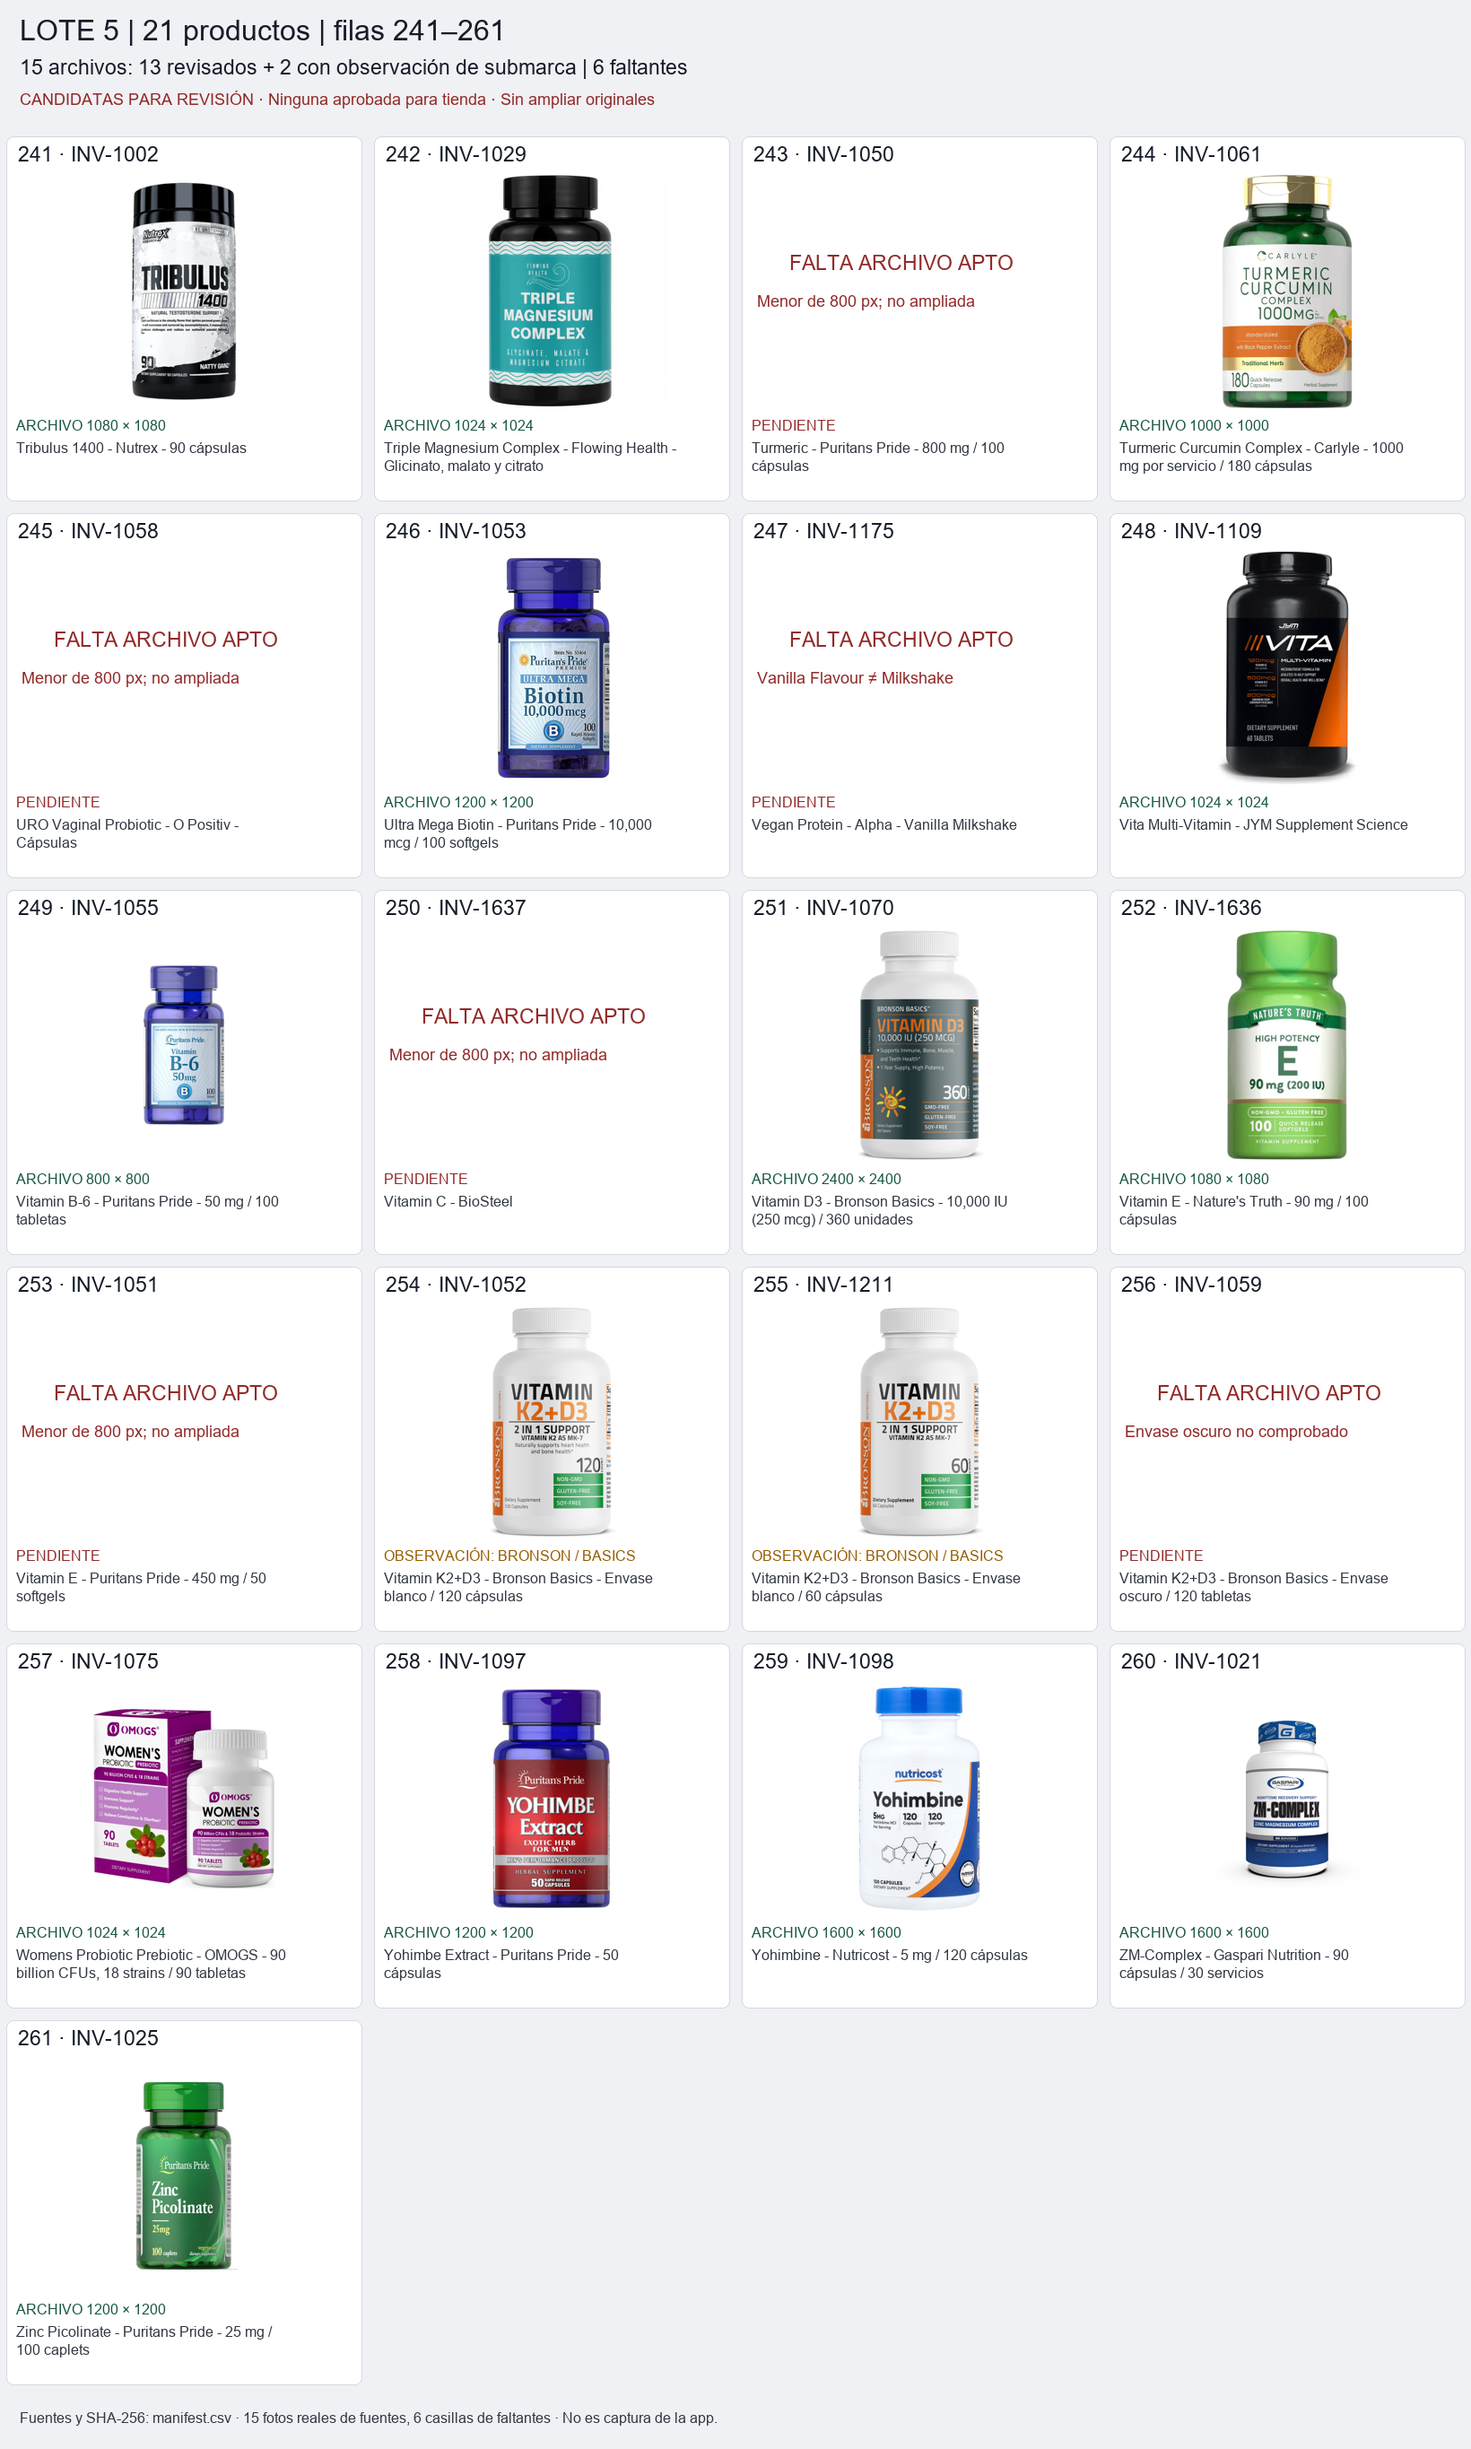
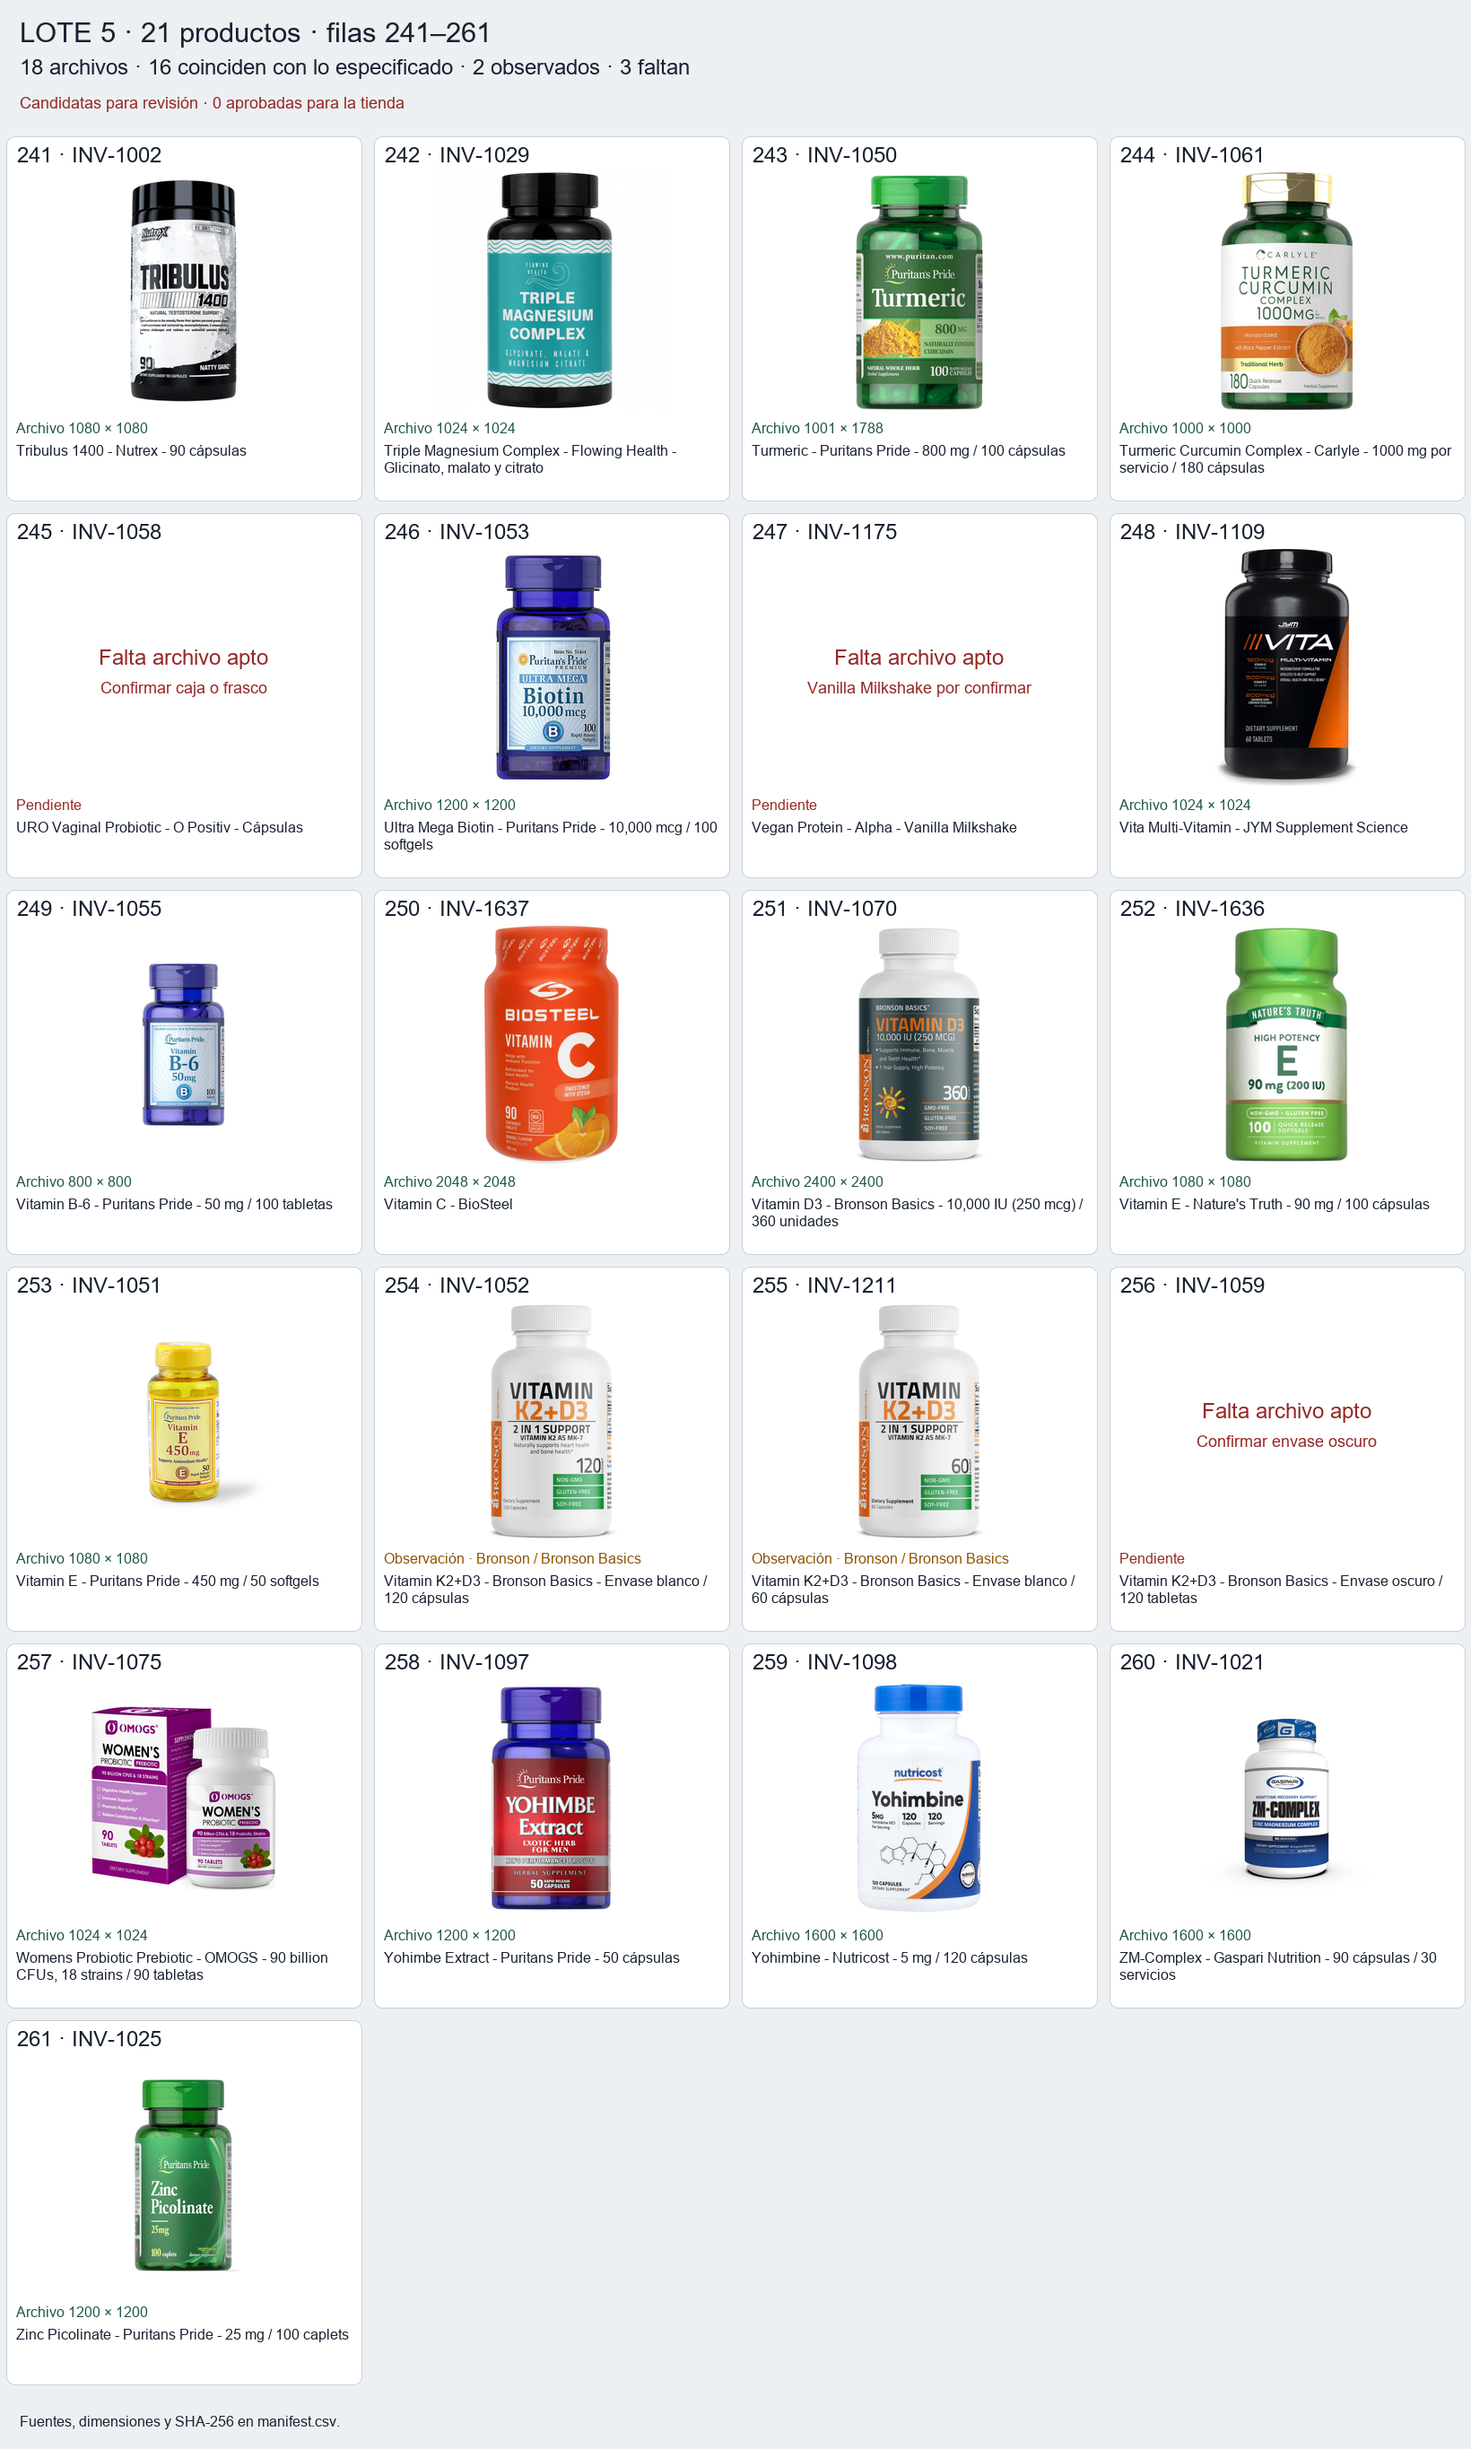
docs(fotos): agregar tres candidatas al lote 5

diff --git a/docs/fotos/lote-5/README.md b/docs/fotos/lote-5/README.md
@@ -1,20 +1,20 @@
 # Lote 5: archivos de imagen para revisión
 
-Orden: `docs/coordinacion/ORDEN_EVIDENCIA_17NOV.md`, sección ChatGPT PC. Base: `32852bf046f499bc27bd369b1e5fc215a5d4912c`. Rama: `chatgpt-pc/fotos-lote-5`. Entrega del 17-nov-2026 UTC (noche del 16-nov en la PC).
+La orden de evidencia del 17 de noviembre asigna las filas 241–261 a `chatgpt-pc/fotos-lote-5`. La revisión del 17-nov amplía la entrega anterior `66c3bb7c` con tres archivos.
 
 ## Conteo exacto
 
 | Resultado | Productos |
 |---|---:|
 | Recibidos y trabajados, filas 241–261 | 21 |
-| Con archivo WebP y coincidencia visual con los datos especificados | 13 |
+| Con archivo WebP y coincidencia visual con los datos especificados | 16 |
 | Con archivo WebP y observación de submarca pendiente | 2 |
-| Sin archivo que cumpla resolución/identidad | 6 |
+| Sin archivo que cumpla la presentación solicitada | 3 |
 | Suma de resultados | 21 |
-| Archivos WebP reales en esta carpeta | 15 |
+| Archivos WebP reales en esta carpeta | 18 |
 | Aprobados para aplicar a la tienda | 0 |
 
-La hoja [contacto.png](contacto.png) reúne las **15 imágenes** en una sola imagen y muestra además seis casillas de faltantes. Las casillas no se cuentan como fotos. Cada casilla identifica `n` y SKU; mantiene el orden del maestro. No es una captura de la aplicación.
+La hoja reúne las **18 imágenes** y señala los tres faltantes en el orden del maestro. Cada casilla identifica su fila y SKU. [Hoja de contacto](contacto.png)
 
 [manifest.csv](manifest.csv) contiene los 21 productos, sus fuentes, campo `licencia/uso`, coincidencia de marca/presentación, fechas originales, dimensiones y SHA-256. [validacion.json](validacion.json) registra el conteo, los hashes y las comprobaciones efectuadas sobre los archivos finales.
 
@@ -23,10 +23,20 @@ La hoja [contacto.png](contacto.png) reúne las **15 imágenes** en una sola ima
 - Los 21 pares `n`/SKU y nombres coinciden con `docs/fotos/suplementos.csv`; no se modificó el maestro.
 - Se abrieron y compararon las candidatas locales. Catorce imágenes seleccionadas proceden de originales descargados el 15-nov; sus hashes se volvieron a verificar. Se conserva esa fecha en el CSV y no se presentan como descargas nuevas.
 - La candidata nueva de **INV-1029 / n 242** muestra Flowing Health y glicinato, malato y citrato. Sustituye en esta entrega las candidatas descartadas BioEmblem/Quiet Mood, sin cambiar el sistema. La ficha de NutriCity contiene cantidades discordantes; no se trasladan al maestro, que tampoco indica cantidad.
-- Los 15 archivos finales se decodificaron como WebP, con al menos 800 px en ambos ejes, conservando las dimensiones originales. No se amplió ninguna imagen.
+- Los 18 archivos finales se decodificaron como WebP y conservan sus dimensiones originales, de al menos 800 px en ambos ejes.
 - La conversión es sin pérdida: los píxeles RGB de cada WebP coinciden con el original sobre fondo blanco. No se generaron fotos ni se reescribieron etiquetas. Se conservaron los envases completos sobre su fondo limpio; no se aplicaron recortes innecesarios.
 - Se inspeccionó visualmente la hoja de contacto final. **INV-1075 / n 257** conserva la composición original de caja y frasco; no es una botella aislada.
 - Se comprobaron los dominios y fichas de referencia accesibles. Los HTTP 403/429 encontrados se registraron y no se intentaron eludir.
+
+## Tres archivos añadidos
+
+| n | SKU | Etiqueta visible | Dimensiones de origen | Fuente |
+|---|---|---|---|---|
+| 243 | INV-1050 | Puritan’s Pride Turmeric 800 mg, 100 cápsulas | 1001 × 1788 | [Puritan’s Pride Taiwán, artículo 51441](https://www.puritantw.com/products/turmeric-extract-800mg-100-capsules) |
+| 250 | INV-1637 | BioSteel Vitamin C 500 mg, naranja, 90 tabletas masticables | 2048 × 2048 | [Vitamart](https://www.vitamart.ca/products/biosteel-vitamin-c-90-chewable-tablets) |
+| 253 | INV-1051 | Puritan’s Pride Vitamin E 450 mg, 50 softgels | 1080 × 1080 | [Al Ain Pharmacy](https://alainpharmacy.ae/puritans-pride-e-1000-iu-softgels-50-s.html) |
+
+El renglón INV-1637 del maestro solo identifica marca y producto. Vitamart etiqueta su ficha como descontinuada. El tamaño y el envase de la tienda requieren cotejo. [Ficha de la presentación fotografiada](https://www.vitamart.ca/products/biosteel-vitamin-c-90-chewable-tablets)
 
 ## Observaciones que impiden aprobar dos candidatas
 
@@ -37,16 +47,13 @@ La hoja [contacto.png](contacto.png) reúne las **15 imágenes** en una sola ima
 
 Se incluyen como evidencia para cotejo físico, identificadas en naranja en la hoja y como `candidata_con_observacion` en el CSV. Los respaldos que mostraban tabletas o cantidades distintas quedaron excluidos.
 
-## Los seis faltantes
+## Los tres faltantes
 
 | n | SKU | Por qué no hay archivo entregable |
 |---|---|---|
-| 243 | INV-1050 | Original 640×640; acceso directo a la ficha oficial HTTP 403. No se amplía. |
-| 245 | INV-1058 | Caja URO 540×540; falta un original mayor de la presentación correcta. |
-| 247 | INV-1175 | Etiqueta Vanilla Flavour frente a Vanilla Milkshake del maestro; equivalencia no comprobada. |
-| 250 | INV-1637 | Original 600×600; consulta al catálogo del proveedor HTTP 429. No se amplía. |
-| 253 | INV-1051 | Originales 540×600 y 386×386; ficha consultada redirige a Error404 y acceso directo HTTP 403. |
-| 256 | INV-1059 | No hay candidata exacta del envase oscuro / 120 tabletas. No se sustituye por otra forma o cantidad. |
+| 245 | INV-1058 | El original del fabricante, 2000 × 2000 px, muestra un frasco rosa de 60 cápsulas. La referencia anterior muestra una caja. Falta cotejar el envase físico. [O Positiv](https://opositiv.com/products/uro-vaginal-probiotic-capsules) |
+| 247 | INV-1175 | La fuente oficial denomina al producto Vanille y la candidata dice Vanilla Flavour. Queda por confirmar si es el Vanilla Milkshake del maestro. [Alpha Foods](https://alphafoods.de/products/vegan-protein-600-txpl8) |
+| 256 | INV-1059 | La ficha de 120 tabletas muestra un frasco blanco con etiqueta oscura. Falta confirmar a cuál se refiere el maestro con «envase oscuro». [Bronson Basics](https://www.bronsonvitamins.com/products/bronson-basics-vitamin-k2-plus-d3-mk7-120-tablets-1) |
 
 ## Reparto y límites
 

diff --git a/docs/coordinacion/RESULTADOS_CHATGPT.md b/docs/coordinacion/RESULTADOS_CHATGPT.md
@@ -2,6 +2,13 @@
 
 Aquí cada asistente deja, por entrega, lo que hizo para que Claude lo lea sin que la dueña lo pegue. Sin secretos ni datos de clientes. Una sección por entrega, la más nueva arriba.
 
+## 2026-11-17 16:14 UTC · ChatGPT PC · ampliación de fotos del lote 5
+
+- Añadí tres WebP a `chatgpt-pc/fotos-lote-5` sobre `66c3bb7c`. INV-1050 muestra 800 mg y 100 cápsulas. INV-1637 muestra BioSteel Vitamin C, 90 tabletas masticables. INV-1051 muestra 450 mg y 50 softgels. [Fuentes y detalle](../fotos/lote-5/README.md)
+- El lote tiene 18 fotografías en 21 filas. Dieciséis coinciden con los datos especificados, dos conservan la observación de submarca y tres quedan pendientes por envase o variante. Cero aprobadas para la tienda. [Hoja de contacto](../fotos/lote-5/contacto.png)
+- Comprobé los 21 SKU y nombres contra el maestro, las dimensiones de los 18 WebP y sus hashes. Verifiqué igualdad de píxeles con los tres originales añadidos. [CSV](../fotos/lote-5/manifest.csv) · [Validación](../fotos/lote-5/validacion.json)
+- La revisión de la app integrada queda pendiente de la rama de Dot. Le compartí el hallazgo de los seis botones del menú móvil sin nombre accesible en el prototipo y le pedí la rama, el SHA y las pruebas de Inicio / Resumen.
+
 ## 2026-11-17 UTC · ChatGPT PC · evidencia de fotos, lote 5
 
 - **Orden/base/rama:** `ORDEN_EVIDENCIA_17NOV.md`, sección ChatGPT PC; base `32852bf046f499bc27bd369b1e5fc215a5d4912c`; rama `chatgpt-pc/fotos-lote-5`. Solo documentos e imágenes candidatas.
